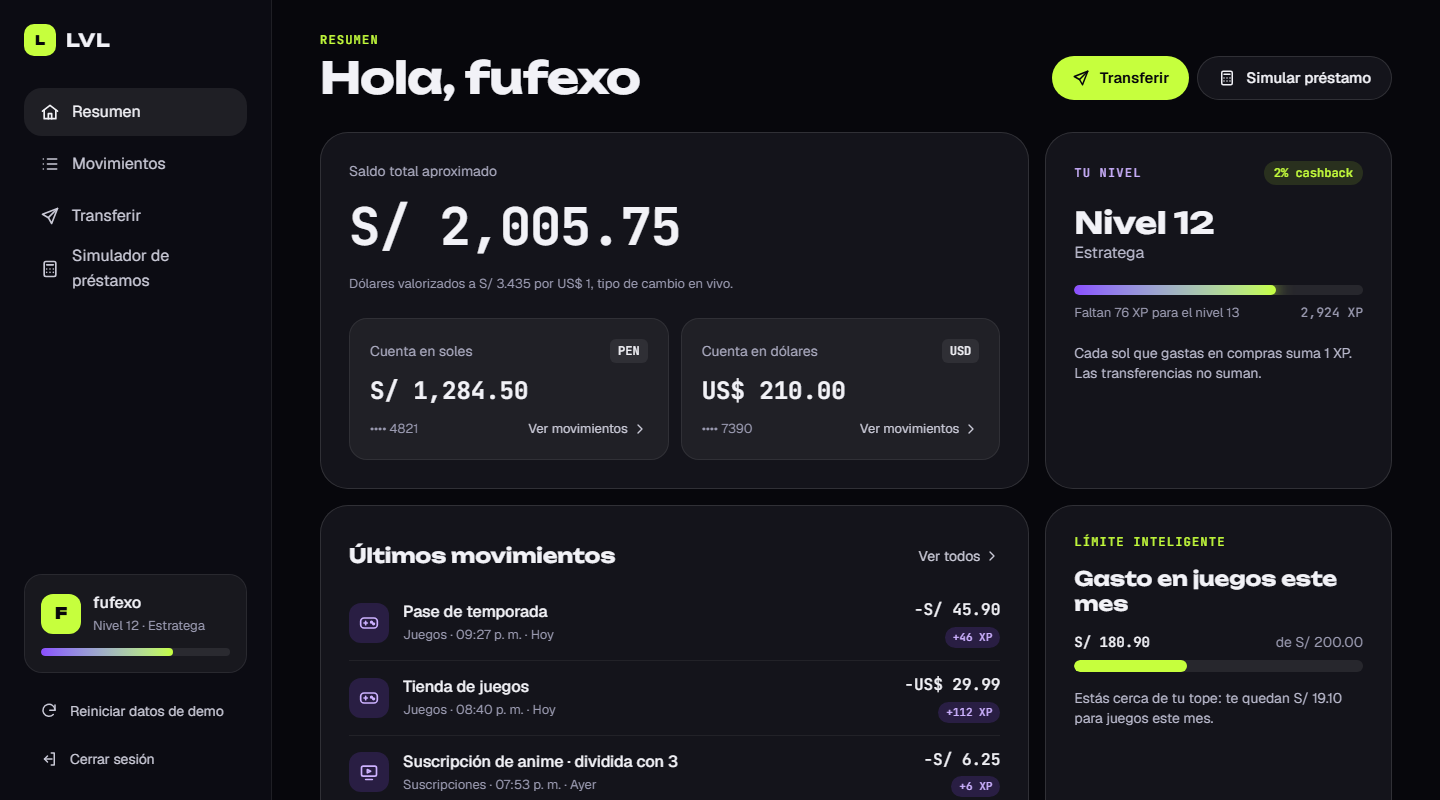
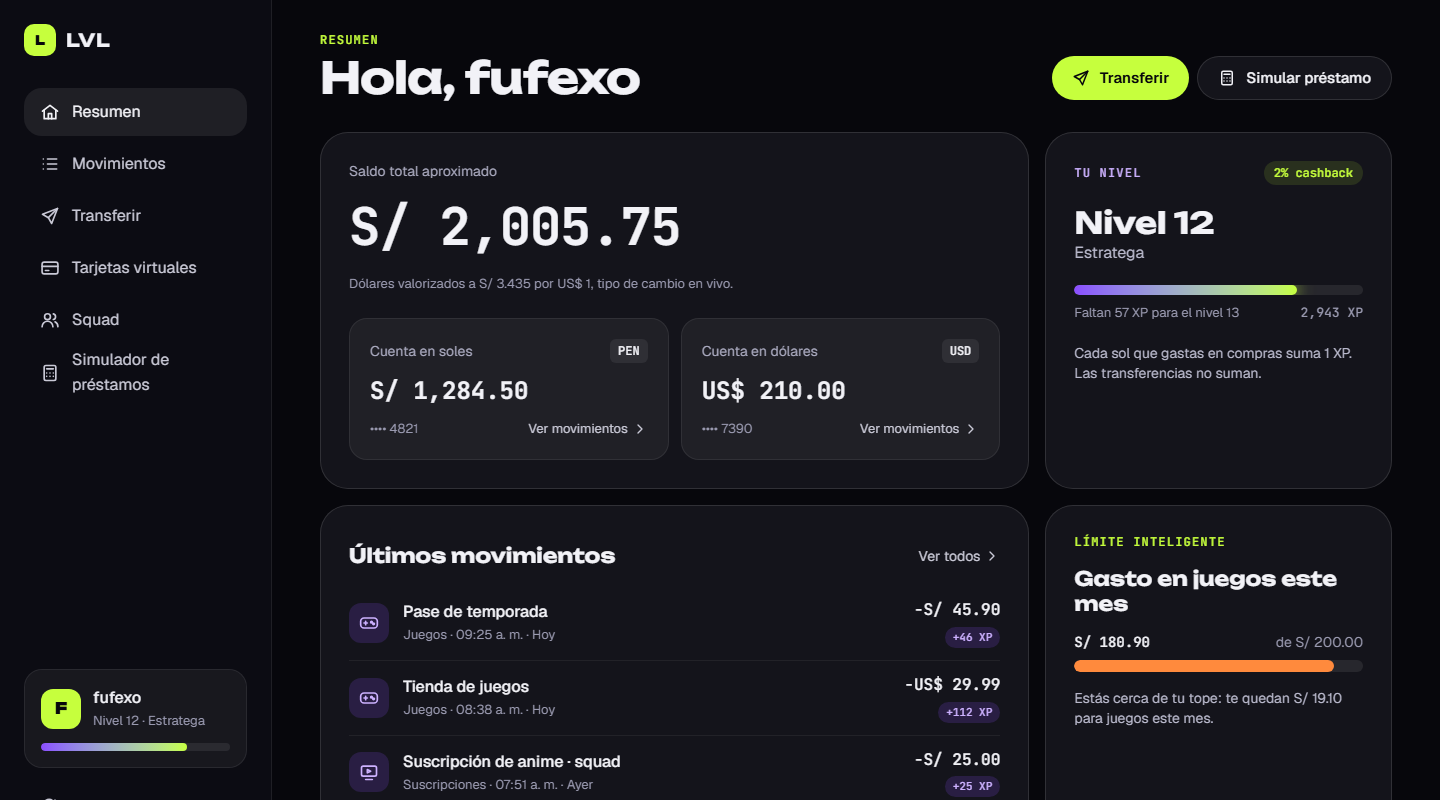
docs: tarjetas, squad y tests e2e en el README

diff --git a/README.md b/README.md
@@ -22,7 +22,7 @@ Billetera digital ficticia para gamers en Perú: una landing animada y un panel 
 
 ### Landing
 
-- **Hero animado** con titular revelado palabra por palabra (GSAP SplitText) y tarjeta de producto con inclinación 3D que sigue al cursor.
+- **Hero animado** con titular que sube línea por línea desde una máscara (CSS) y tarjeta de producto con inclinación 3D que sigue al cursor (GSAP).
 - **Conversor PEN → USD** con tipo de cambio en vivo desde una API pública.
 - Bento grid de funciones, cifras animadas y secciones que aparecen con el scroll (Lenis).
 - Navegación móvil accesible: `aria-expanded`, cierre con <kbd>Esc</kbd> y retorno del foco.
@@ -32,7 +32,11 @@ Billetera digital ficticia para gamers en Perú: una landing animada y un panel 
 - **Resumen:** saldo total valorizado en soles, cuentas PEN y USD, nivel con barra de XP y cashback, límite mensual de gasto en juegos y últimos movimientos.
 - **Movimientos:** filtros por cuenta y categoría, búsqueda que ignora tildes y mayúsculas, agrupación por día y estado vacío con salida. La cuenta se puede preseleccionar desde la URL (`?cuenta=usd`).
 - **Transferir:** asistente en tres pasos (datos → confirmar → listo) entre cuentas propias, con conversión en vivo, o a tu squad. Valida saldo y destino, muestra errores junto a cada campo y un resumen enfocable al enviar.
+- **Tarjetas virtuales:** crea hasta tres tarjetas desechables con su propio tope, congélalas o elimínalas (con confirmación). Al simular una compra se aplican las reglas de verdad: tope de la tarjeta, límite mensual de juegos y saldo; cada compra suma XP, devuelve cashback según tu nivel y avisa si subiste de nivel.
+- **Squad:** paga una suscripción completa, divídela con tu squad y registra quién ya te devolvió su parte. El saldo "por cobrar" se actualiza solo.
 - **Simulador de préstamos:** cuota fija (sistema francés) con TEA que baja según tu nivel, gráfico de capital vs. interés por mes y cronograma completo en tabla.
+
+![Tarjetas virtuales: tarjeta con su tope, compra simulada y creación de tarjetas](docs/dashboard-cards.png)
 
 ![Simulador de préstamos con cuota mensual y gráfico de capital e interés](docs/dashboard-loans.png)
 
@@ -44,14 +48,15 @@ Billetera digital ficticia para gamers en Perú: una landing animada y un panel 
 | Formularios | Signal Forms (`@angular/forms/signals`) con validación por schema |
 | Renderizado | Prerender estático para las páginas públicas; render en el cliente para el panel |
 | Estilos | Tailwind CSS v4 con tokens de diseño en `@theme` |
-| Animación | GSAP 3 (ScrollTrigger, SplitText) + Lenis |
-| Tests | Vitest + GitHub Actions |
+| Animación | CSS para la intro del hero; GSAP 3 (ScrollTrigger) + Lenis para el resto |
+| Tests | Vitest (unitarios), Playwright + axe-core (end-to-end), GitHub Actions |
 | Deploy | Vercel |
 
 ## Decisiones técnicas
 
 - **Renderizado híbrido por ruta.** La landing y `/ingresar` se prerenderizan a HTML (se ven y se indexan sin JavaScript). El panel es privado y vive en el navegador, así que se renderiza solo en el cliente, detrás de un guard que recuerda a dónde ibas (`?volver=`) y rechaza destinos fuera de `/app`.
-- **Estado con signals.** Un store por dominio (`BankStore`) expone el estado con `signal`/`computed`, persiste en `localStorage` mediante un `effect` y tolera almacenamiento bloqueado o SSR. Las transferencias son asíncronas, con latencia simulada, para que la UI tenga estados de carga reales.
+- **Estado con signals, un store por dominio.** `BankStore` (cuentas y movimientos), `CardsStore` y `SquadStore` exponen su estado con `signal`/`computed` y persisten en `localStorage` mediante un `effect`, tolerando almacenamiento bloqueado o SSR. Las tarjetas y el squad no tocan los saldos directamente: registran movimientos a través de `BankStore.record()`, así el historial y los saldos nunca se desincronizan. Las operaciones son asíncronas, con latencia simulada, para que la UI tenga estados de carga reales.
+- **Errores de negocio en el campo.** Cuando una regla rechaza una operación (saldo, tope, límite de juegos), el `submit()` de Signal Forms devuelve el error al campo correspondiente y se muestra igual que cualquier validación.
 - **Lógica de negocio pura y testeada.** Amortización, tasas, niveles y formato de montos son funciones puras con sus tests; los componentes solo las muestran.
 - **Formularios accesibles.** Cada error se conecta a su campo con `aria-describedby`; si el envío falla aparece un resumen con enlaces a cada campo que recibe el foco. Al cambiar de página o de paso, el foco va al nuevo título.
 - **Gráfico sin librerías.** SVG propio con escala de ticks legibles, tooltip al pasar el mouse y resumen textual para lectores de pantalla. La tabla de cronograma es la vista alternativa. La paleta del gráfico se validó para daltonismo y contraste sobre el fondo oscuro.
@@ -61,8 +66,10 @@ Billetera digital ficticia para gamers en Perú: una landing animada y un panel 
 
 ## Calidad
 
-- **28 tests** (Vitest): cálculo de préstamos, niveles, store de transferencias y persistencia, guard y redirección segura, asistente de transferencia y filtros de movimientos. Corren en CI en cada push.
-- **axe-core** (WCAG 2.2 AA + buenas prácticas): 0 violaciones en la landing, `/ingresar` y las cuatro páginas del panel.
+- **35 tests unitarios** (Vitest): préstamos, niveles, stores (transferencias, tarjetas, squad, persistencia), guard y redirección segura, asistente de transferencia y filtros de movimientos.
+- **9 tests end-to-end** (Playwright) sobre el build de producción: ingreso con guard, transferencia completa, compra con tarjeta que sube de nivel, congelar y eliminar tarjeta, dividir y cobrar en el squad, simulador y navegación móvil. El tipo de cambio se simula para que sean deterministas.
+- **axe-core** (WCAG 2.2 AA + buenas prácticas) dentro de los tests e2e: 0 violaciones en la landing y las seis páginas del panel.
+- Todo corre en GitHub Actions en cada push.
 - **Lighthouse** sobre producción, landing:
 
 | | Rendimiento | Accesibilidad | Buenas prácticas | SEO |
@@ -85,9 +92,9 @@ src/app/
     ├── landing/              # secciones y componentes de la landing
     ├── auth/                 # /ingresar
     └── dashboard/
-        ├── data/             # modelos, BankStore, préstamos, niveles (+ tests)
-        ├── shell/            # layout: barra lateral y navegación inferior
-        ├── overview/  movements/  transfer/  loans/
+        ├── data/             # modelos, BankStore, CardsStore, SquadStore, préstamos, niveles (+ tests)
+        ├── shell/            # layout: barra lateral y navegación inferior con "Más"
+        ├── overview/  movements/  transfer/  cards/  squad/  loans/
         └── ui/               # piezas compartidas del panel
 ```
 
@@ -100,14 +107,17 @@ npm ci
 npm start          # servidor de desarrollo en http://localhost:4200
 npm test           # tests unitarios
 npm run build      # build de producción + prerender en dist/lvl/browser
+npm run e2e        # tests end-to-end (después de npm run build)
 ```
+
+La primera vez que corras los e2e instala el navegador con `npx playwright install chromium`.
 
 Los datos del panel se guardan en tu navegador. Para volver al estado inicial usa **Reiniciar datos de demo** en la barra lateral.
 
 ## Próximos pasos
 
-- Tests end-to-end con Playwright para los flujos de ingreso y transferencia.
-- Pagos con tarjeta virtual desechable y división de suscripciones con el squad.
+- Backend real (por ejemplo Supabase) con autenticación, para que los datos sigan al usuario entre dispositivos.
+- Metas de ahorro y retos semanales que den XP extra.
 
 ## Autor
 
